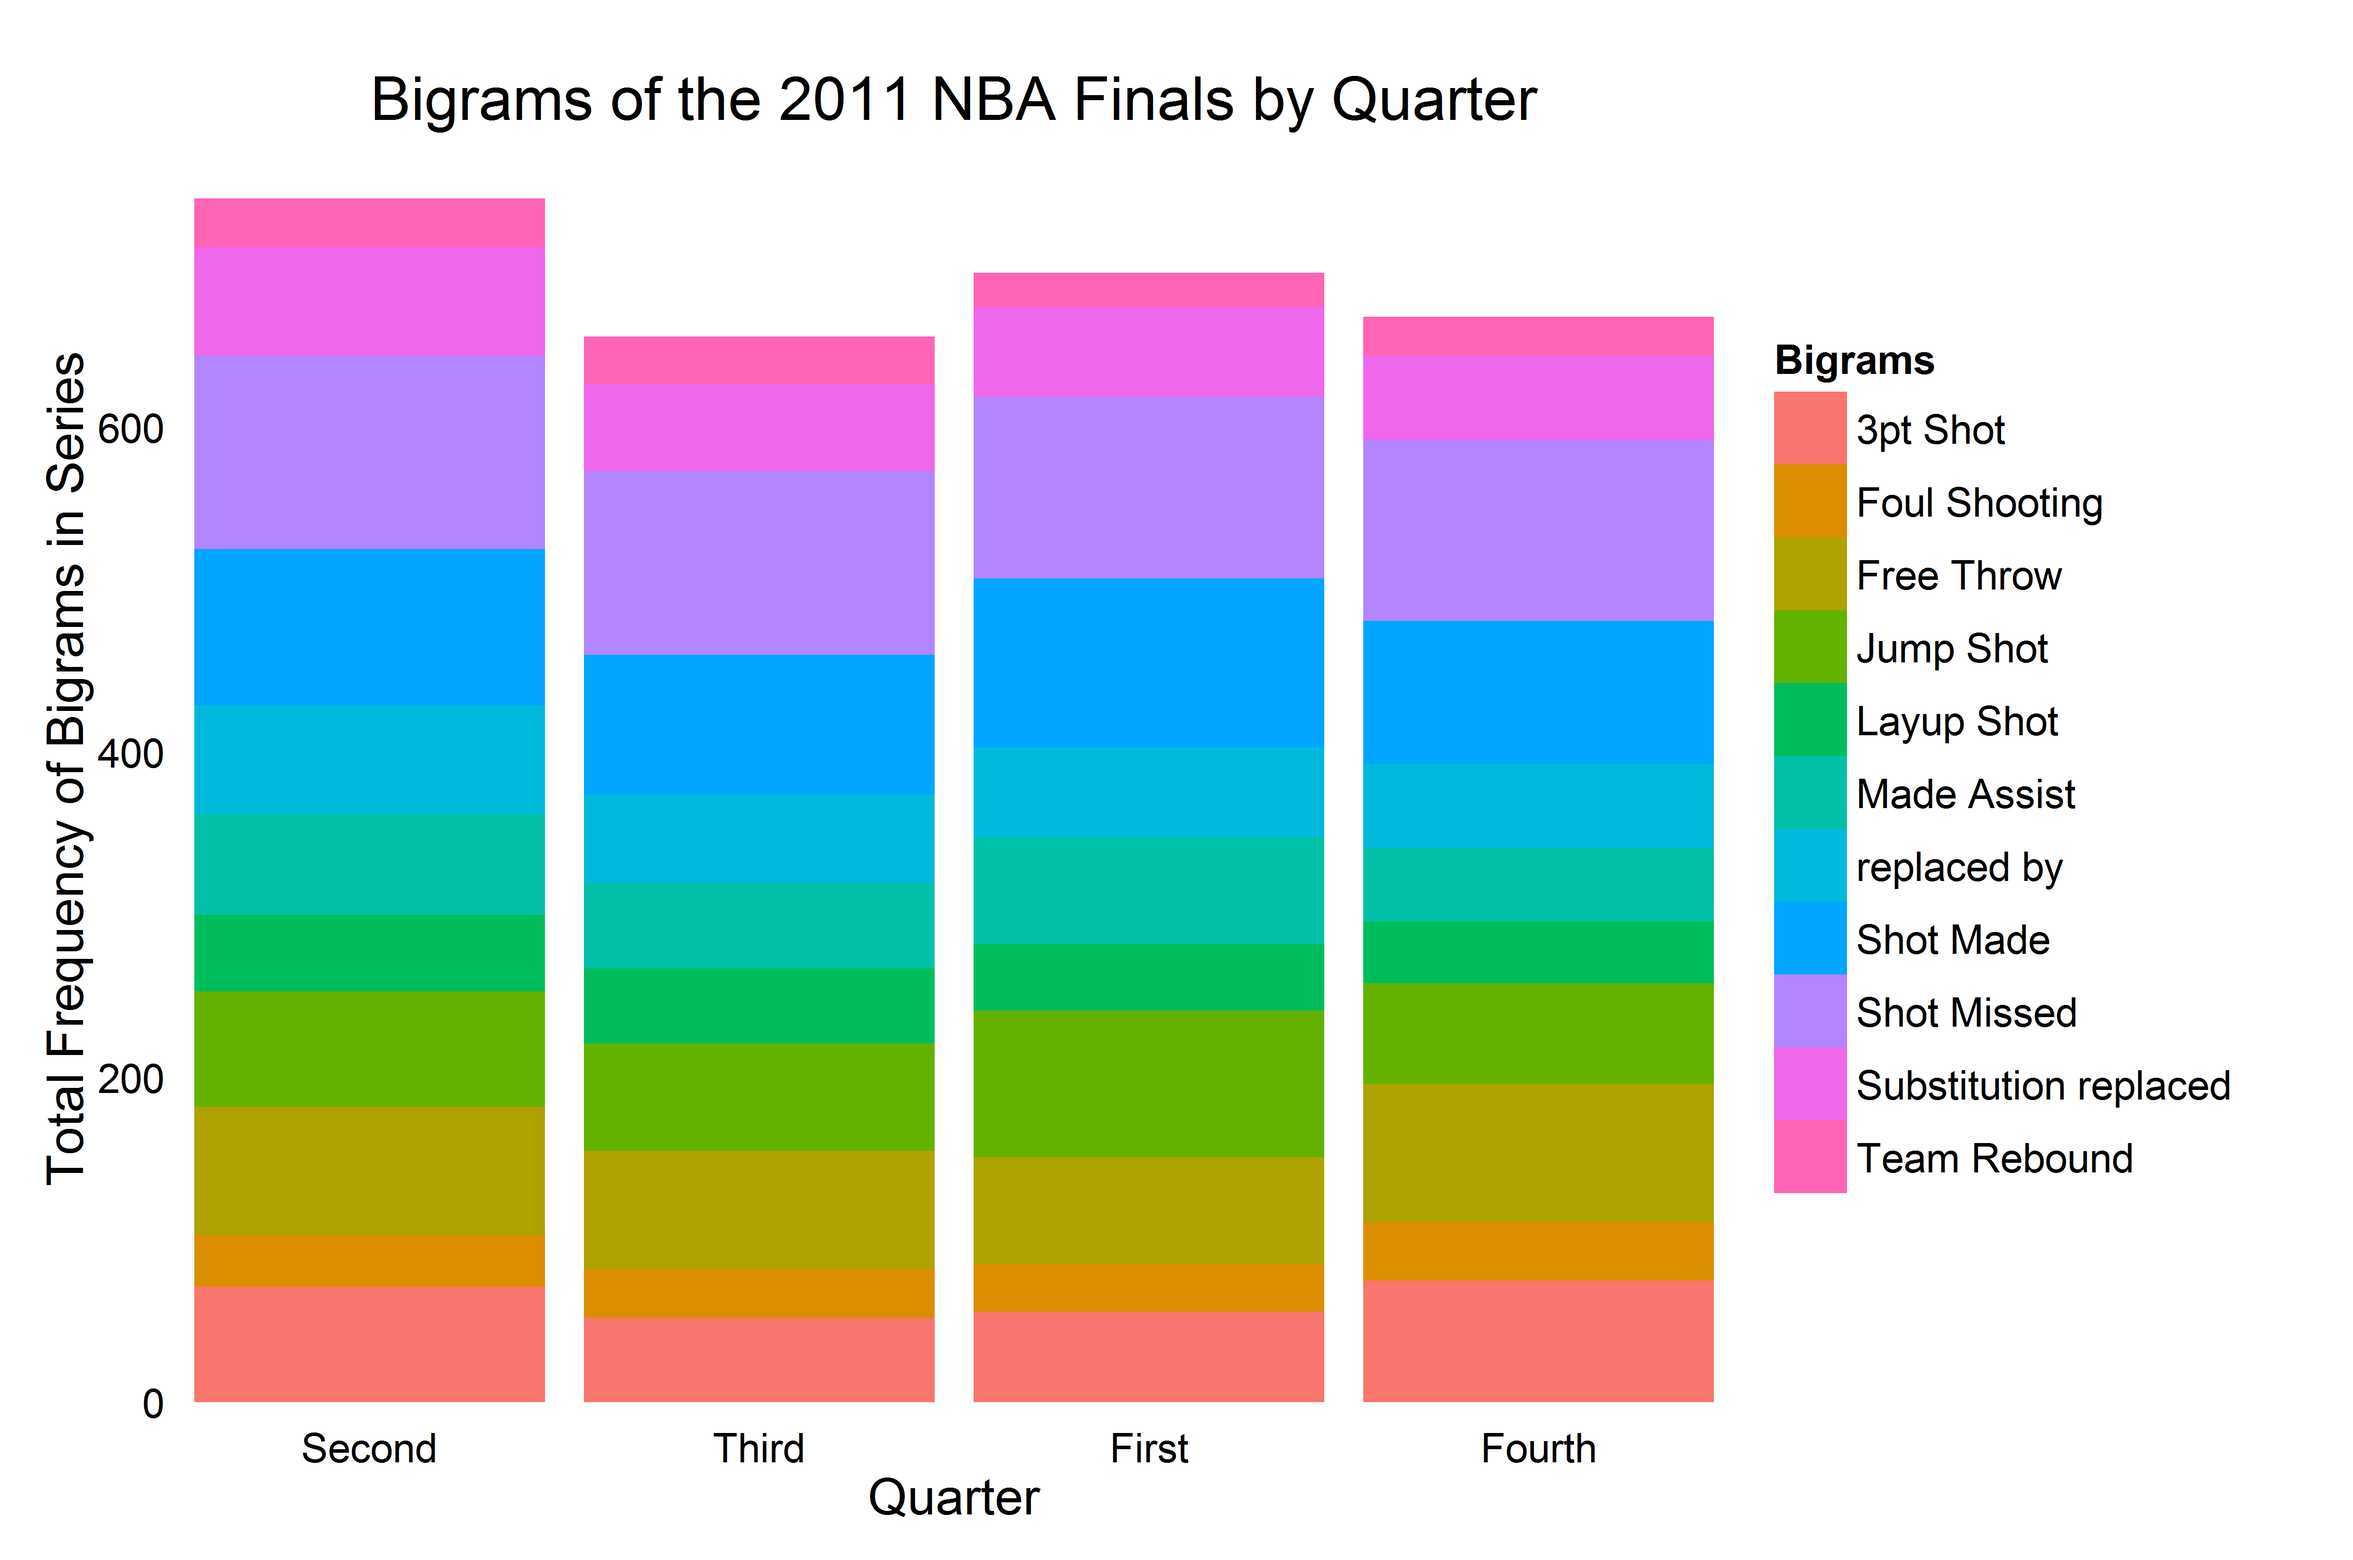
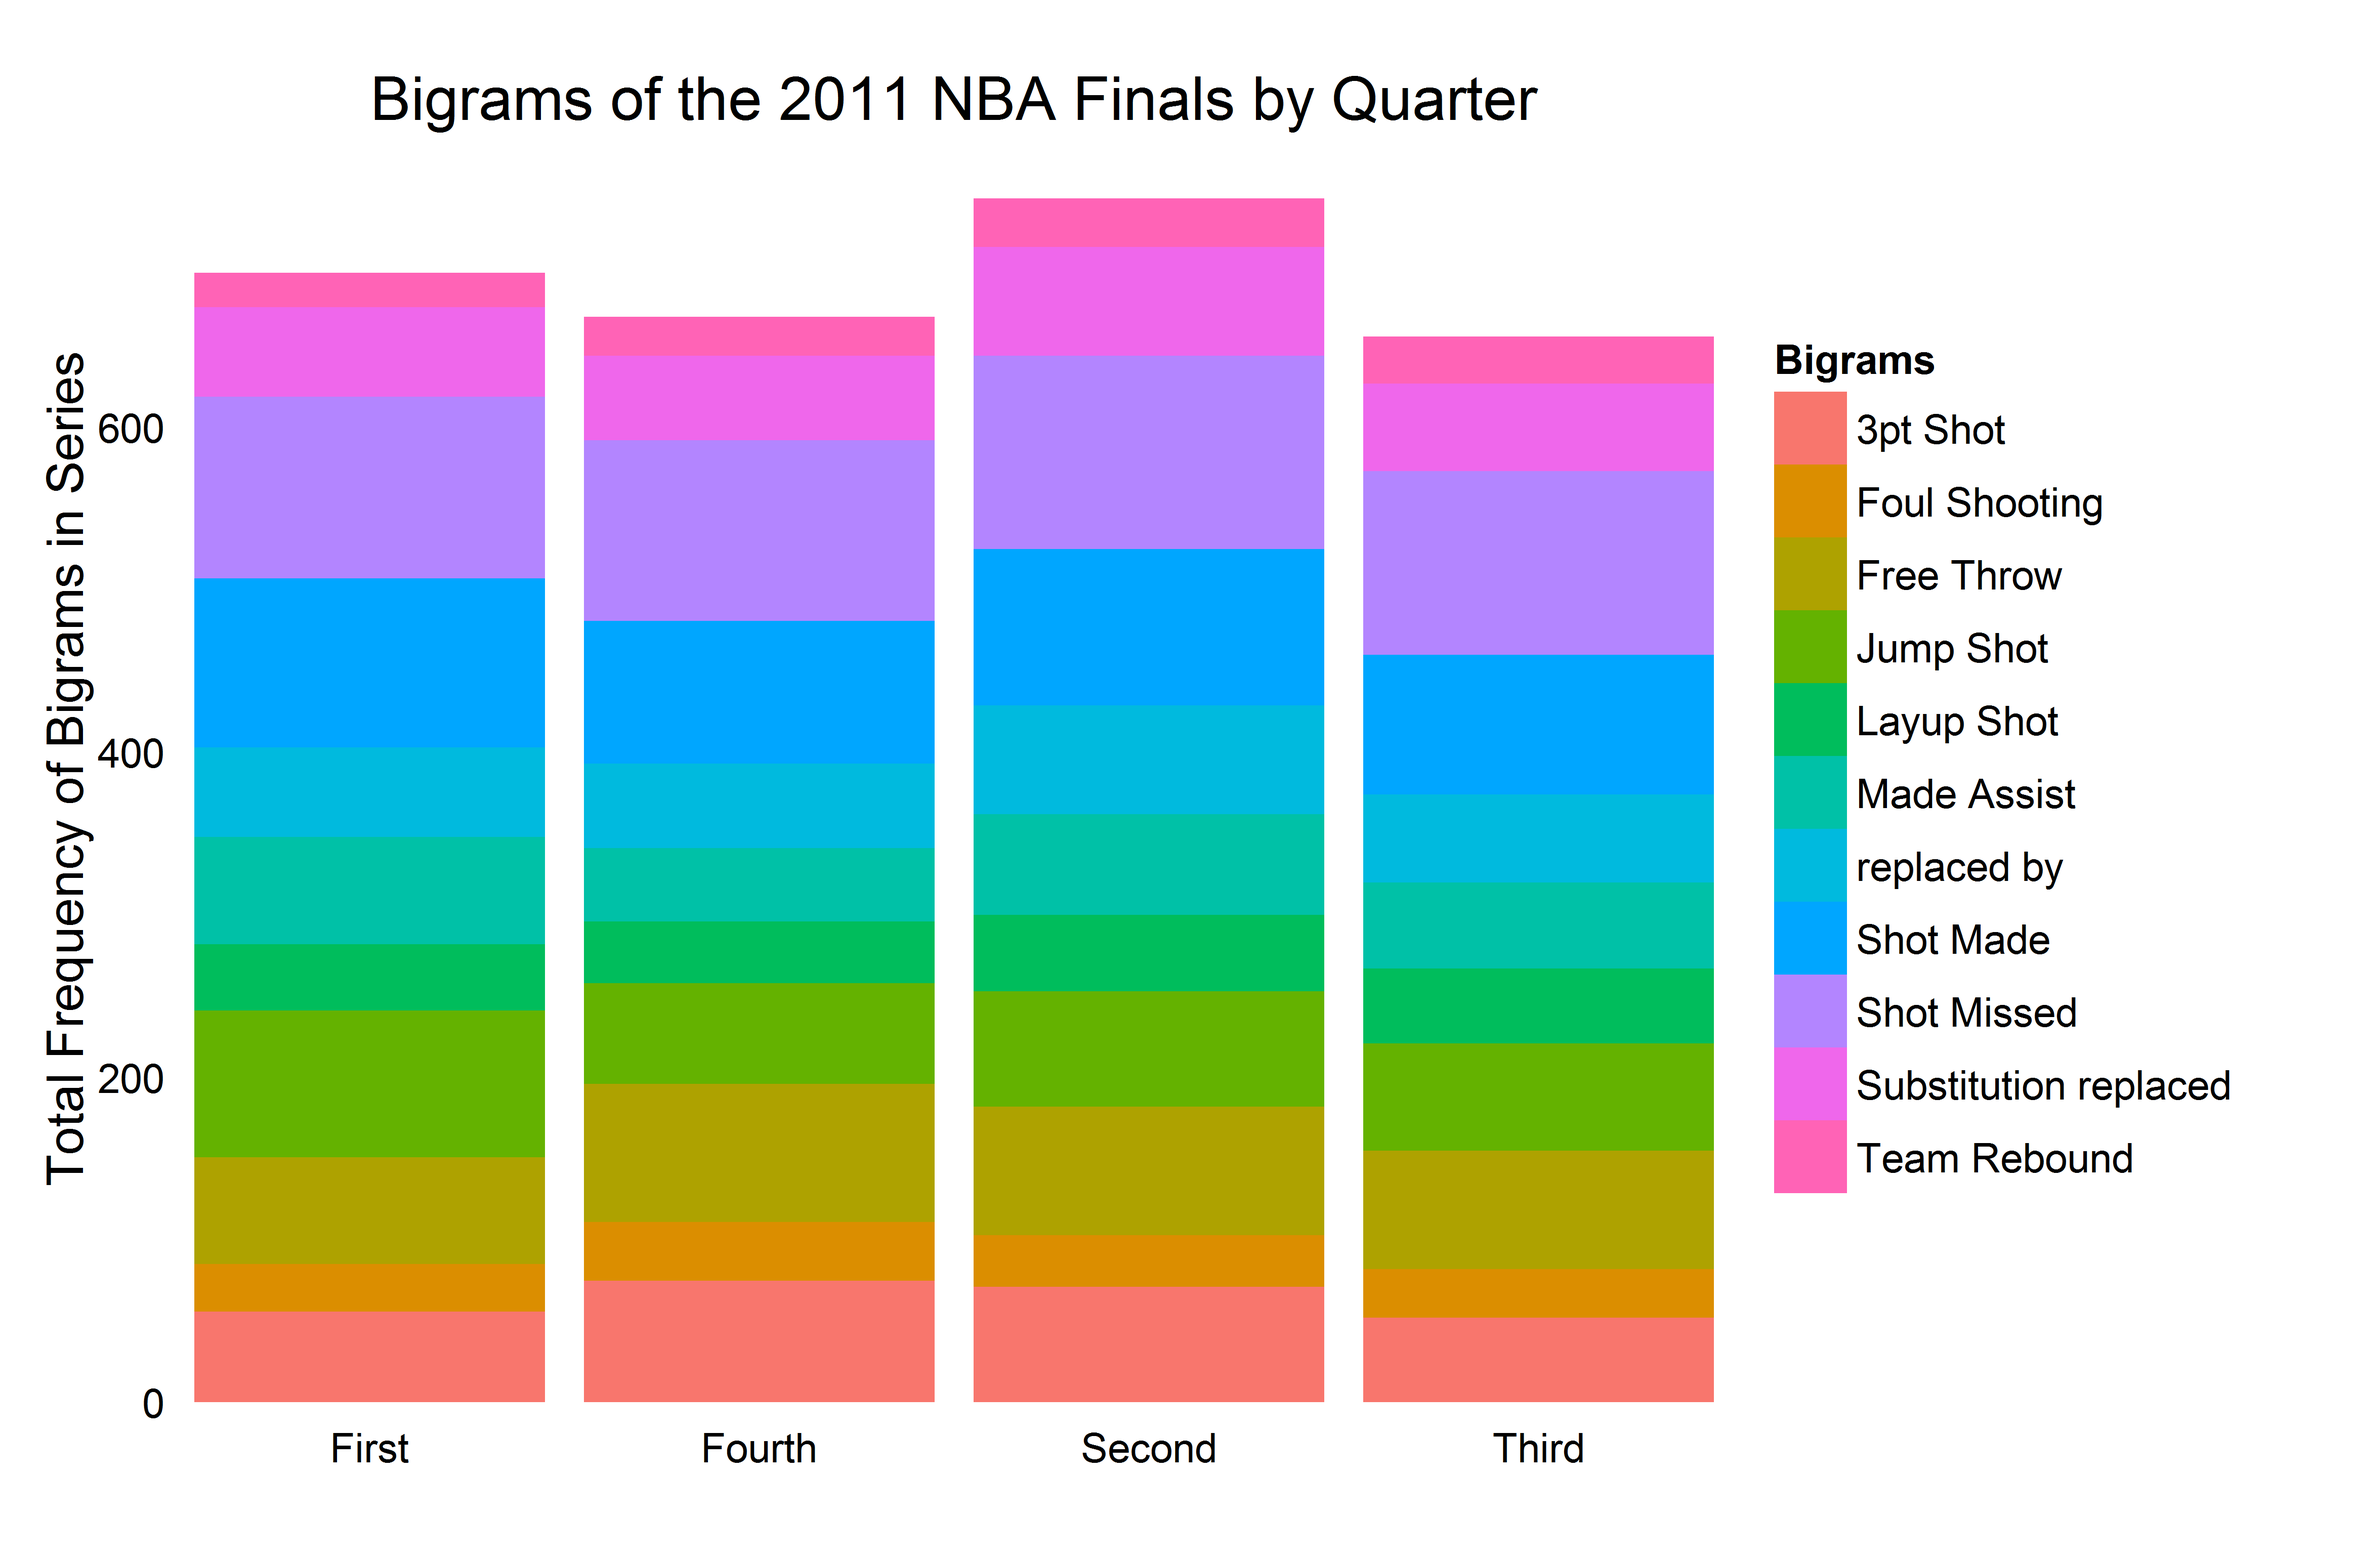
final?

diff --git a/homework4/README.md b/homework4/README.md
@@ -7,14 +7,14 @@ Homework 4: Text Visualization
 
 ## Instructions ##
 
-These visualizations can be created using the code found in this repository.  
+The following visualizations can be created using the code found in this repository.  
 
 The data set came from http://basketballvalue.com/downloads.php  
 
-2011NBA_Finals_play_by_play.py holds the Python code for turning the raw data into the text data used in visualization.  
+'2011NBA_Finals_play_by_play.py' holds the Python code for turning the raw data into the text data used in visualization.  
 Note that this is an IPython notebook file and requires that IPython be installed on your machine.
 
-visualize_2011_Finals_play_by_play_data.R holds the R code for creating the visualizations
+'visualize_2011_Finals_play_by_play_data.R' holds the R code for creating the visualizations
 
 The following packages must be installed prior to running this code:
 
@@ -25,5 +25,79 @@ The following packages must be installed prior to running this code:
 
 
 ## Discussion ##
+  
+For this assignment I choose to use basketball play-by-play records as my source of text data.
+The data in sports is very rich and publically available.  
+Basketball play-by-play data is something that adds another dimension, time, to traditional basketball statistics which makes it potentially more interesting that 'static' data.
+More specifically, I have used the official textual records of discrete events that occurred during the 2011 NBA Finals, an event that was meaningful to me personally.
+NBA play-by-play data is a time series of statistically significant events that occurs during an NBA game, such as made shoots, missed shoots, rebounds, etc.
+The data locates in time these events as well as which person on the court performs them.
+The vocabulary of this text is somewhat limited but, this makes it very feasible to do n-gram studies on the word sequences in each recorded event.
+My visualizations are the beginnings of a look into which people, actions, and adjectives frequently occur together in an NBA basketball game.
+The variables and data points in this data set are words;  words that correspond to people and actions that can be measured with other data sets, but looking at basketball through words can be interesting and enlightening none the less.  
+  
+The raw data set I downloaded from http://basketballvalue.com/downloads.php included some information that was not relevant to this particular assignment.
+I removed unnecessary columns and performed some text cleaning in Python on my own.  
+The `tm` package in R, is very specific in its utility and, after experimenting with it, I found that my own simple functions were better suited to calculating n-grams, frequencies of n-grams, and co-occurrence matrices.
+I looked at n-grams for n = 1,2,3,4 and decided that bigrams were the most appropriate text feature for making insights into the data with word clouds and ggplot2.
 
-[DISCUSSION: Include a discussion here if required by the assignment.]
+The first step in analyzing the bigrams was to find which ones were the most frequent:
+
+![hw4_bigram_freq](hw4_bigram_freq.png)
+
+This plot shows the most frequent bigrams and their total frequency of occurrence during the six games played in the 2011 NBA Finals.
+The bigrams are sorted alphabetically which makes them easy to read and searching for a particular phrase very quick.  
+It is harder to compare the counts of the frequencies with this sort order, but given the wide range of values, most of the count totals are easy to distinguish from one another.  
+It went with a simple aesthetic and removed all of the color, gridlines, padding and ticks from the plot.  
+I was sure to orient the bigrams themselves vertically to avoid overlapping text, and I adjusted the text to align below each bar.
+The x and y labels are not necessary to understand the graphic and therefore not plotted.  
+
+The lie factor of this plot is 1.0.  There is no misrepresentation of the data.  
+The bars start at the zero intercept and there is no use of a third dimension, shadowing, or anything to draw to viewer's attention to a particular feature.
+I believe that the data-ink ratio for this plot is also good because excessive annotations and markers have been removed. 
+Perhaps the total ink could be reduced a little bit, but the heavy and dark bars focus the attention of the data and not elsewhere in the plot.
+The data density however is somewhat low for this plot, but that is not uncommon for a bar plot, especially one that is trying to give a very high-level over view of the text data.  
+  
+
+The next step in the visualization process is to take advantage of the temporal nature of this text data and break the bigrams into groups based on when they occurred during the basketball games.
+To keep the visualizations simple and the sample size high, the games were divided into quarters, which are the natural breaks in NBA basketball games.
+Here is a plot of the most frequent bigrams by quarter:  
+
+![hw4_stacked_bar](hw4_stacked_bar.png)
+
+This plot shows the most frequent bigrams in the data set and how frequently they were observed in the each of the four quarters of all six games.
+This plot has an added dimension over the previous plot and uses color to distinguish between the various bigrams.
+Again the plot is reduced to only the essential elements by removing the grids and labels that are not needed.  
+This plot has a few problems that make it slightly harder to interpret.  
+The ordering of the labels in the legend should match the order of the corresponding colors in the stacked bar plot.
+It would also be better if the ordering of the stacked values for each quarter were roughly sorted from largest on the bottom to smallest at the top.
+And perhaps most awkwardly, the quarters should be in order from First to Fourth.  
+GGplot2 defaults to ordering all of these factors alphabetically.
+Despite my best attempts to sort the input data frame, ggplot, will not plot the categories in the order I have specified in the data frame so I have been unable to fix these issues.  
+  
+As far as lie factor, again, this plot does not lie.  The sizes of the bars and each bigram are accurate and plot the true absolute values of the bigram counts.
+The data-ink ratio is a little lower for this plot as a legend was needed to distinguish the bigrams from one another.
+However the density of the data and the number of data values has increased roughly four-fold from the previous plot.
+This allows the viewer to investigate trends in the bigram occurrence over the course of the game.
+
+The final plot for this assignment is a word cloud.  
+However, because word clouds in R are fairly trivial with the `wordcloud` package, I opted to create a plot of four word clouds:
+
+![hw4_wordclouds](hw4_wordclouds.png)
+
+This plot is effectively the same information as the previous stacked bar plot but represented in a different way.
+I wanted to experiment with representing the same table of text information with two different methods.
+Each cloud represents one of the four quarters and is colored distinctly.  
+The size of the word is proportional to the bigram count frequency.
+The color of the word is also representative of the count frequency as more common bigrams should be bolded in the color schemes.
+Labels, grids and legends are not necessary for these word clouds as they are more about impressions of the data and emphasis on 'important' words rather than data accuracy, like the other plots.  
+
+For this reason the lie factor of this plot is much lower than the other plots because the change in size is reduced so that more words could fit into the figure.
+The colors, while vivid, also do not scale proportionately with the data and to do this would require custom color palette creation rather than using color brewer.
+The data-ink ration and the data density are perhaps higher than the other plots.  
+More bigrams can be shown and less ink and annotation was necessary to convey essentially the same message as before.
+  
+  
+In conclusion I have learned that text visualization can be done several ways even for the same data set and desired message meant to be conveyed.
+In particular, bar graphics have great lie factors but lack the general pop and quick overview interpretation that the word clouds can provide.
+A scientist would prefer the bar charts where as a 5-second summary of the different text across several populations may be better performed by a word cloud.
